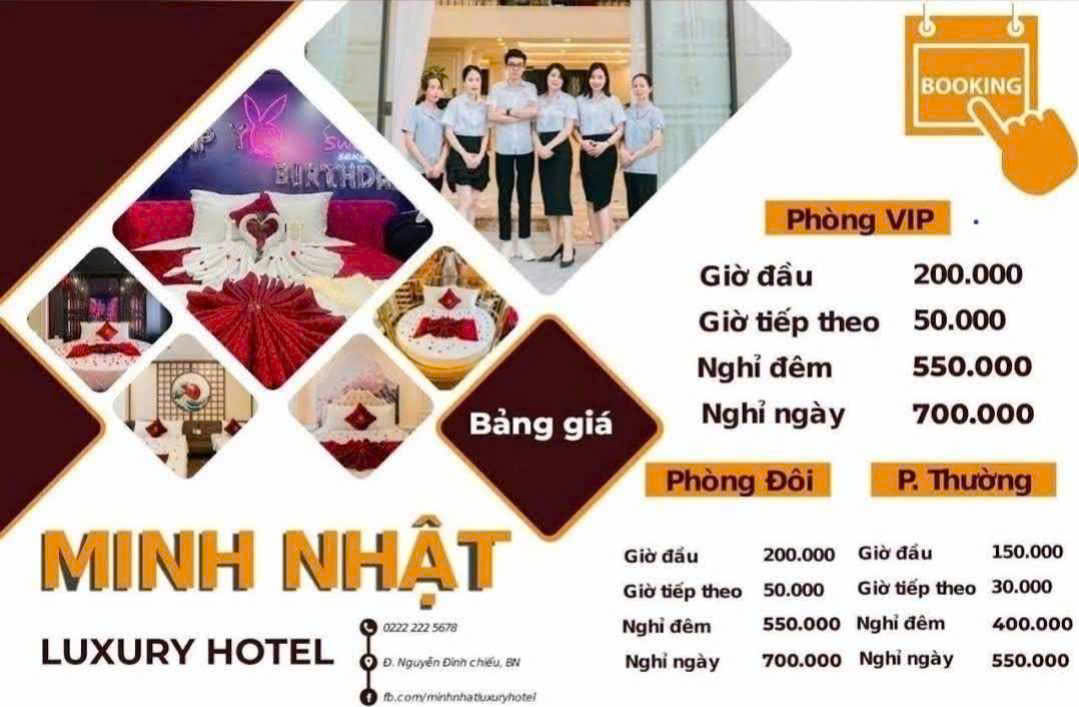
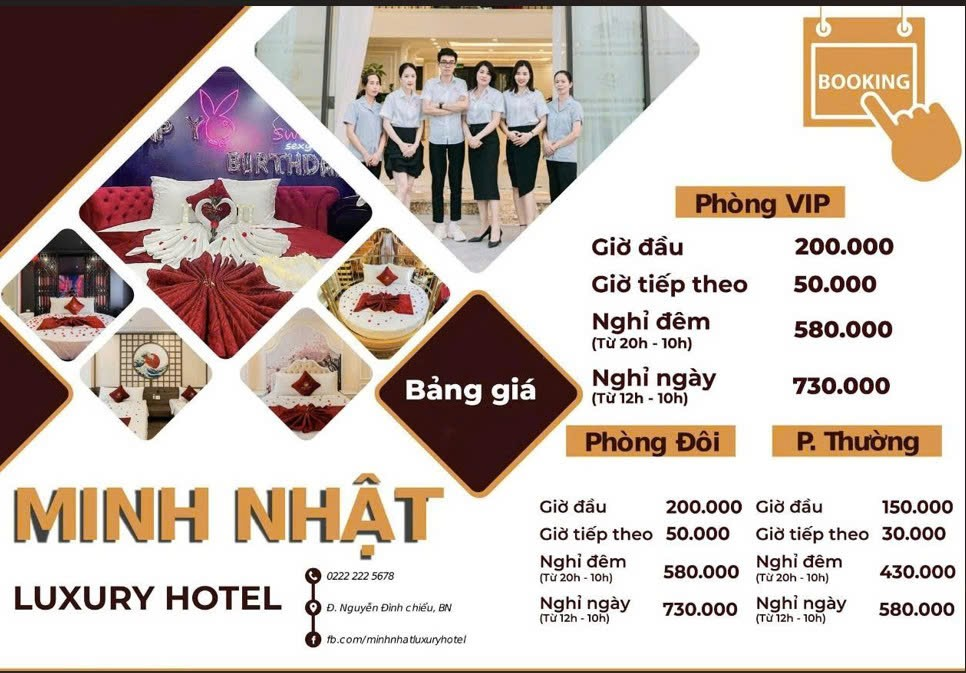
Add files via upload

diff --git a/index.html b/index.html
@@ -132,6 +132,7 @@
   .price-list{list-style:none;margin-bottom:18px}
   .price-list li{display:flex;justify-content:space-between;padding:8px 0;border-bottom:1px solid var(--line);font-size:.95rem}
   .price-list b{color:var(--maroon)}
+  .price-list small,tbody td small{font-size:.78em;color:var(--muted);font-weight:400}
   .nums{font-size:.85rem;color:var(--muted);margin-bottom:18px}
   .nums b{color:var(--ink)}
   .room .btn{justify-content:center;margin-top:auto}
@@ -266,8 +267,8 @@
       <h3>Giá chỉ từ</h3>
       <ul>
         <li><span>Giờ đầu</span><strong>150.000đ</strong></li>
-        <li><span>Nghỉ đêm</span><strong>400.000đ</strong></li>
-        <li><span>Nghỉ ngày</span><strong>550.000đ</strong></li>
+        <li><span>Nghỉ đêm</span><strong>430.000đ</strong></li>
+        <li><span>Nghỉ ngày</span><strong>580.000đ</strong></li>
         <li><span>Địa chỉ</span><span>57 Nguyễn Đình Chiểu, Võ Cường</span></li>
       </ul>
     </div>
@@ -320,8 +321,8 @@
           <ul class="price-list">
             <li>Giờ đầu<b>200.000đ</b></li>
             <li>Giờ tiếp theo<b>50.000đ</b></li>
-            <li>Nghỉ đêm<b>550.000đ</b></li>
-            <li>Nghỉ ngày<b>700.000đ</b></li>
+            <li>Nghỉ đêm <small>(20h – 10h)</small><b>580.000đ</b></li>
+            <li>Nghỉ ngày <small>(12h – 10h)</small><b>730.000đ</b></li>
           </ul>
           <p class="nums">8 phòng: <b>301, 302, 401, 402, 501, 502, 601, 602</b></p>
           <a href="https://m.me/minhnhatluxuryhotel" target="_blank" rel="noopener" class="btn">💬 Đặt phòng VIP</a>
@@ -334,8 +335,8 @@
           <ul class="price-list">
             <li>Giờ đầu<b>200.000đ</b></li>
             <li>Giờ tiếp theo<b>50.000đ</b></li>
-            <li>Nghỉ đêm<b>550.000đ</b></li>
-            <li>Nghỉ ngày<b>700.000đ</b></li>
+            <li>Nghỉ đêm <small>(20h – 10h)</small><b>580.000đ</b></li>
+            <li>Nghỉ ngày <small>(12h – 10h)</small><b>730.000đ</b></li>
           </ul>
           <p class="nums">2 phòng: <b>201, 202</b></p>
           <a href="https://m.me/minhnhatluxuryhotel" target="_blank" rel="noopener" class="btn">💬 Đặt phòng Đôi</a>
@@ -348,8 +349,8 @@
           <ul class="price-list">
             <li>Giờ đầu<b>150.000đ</b></li>
             <li>Giờ tiếp theo<b>30.000đ</b></li>
-            <li>Nghỉ đêm<b>400.000đ</b></li>
-            <li>Nghỉ ngày<b>550.000đ</b></li>
+            <li>Nghỉ đêm <small>(20h – 10h)</small><b>430.000đ</b></li>
+            <li>Nghỉ ngày <small>(12h – 10h)</small><b>580.000đ</b></li>
           </ul>
           <p class="nums">Các phòng <b>x04, x05</b> (204 → 605). Các phòng <b>x03</b> (203 → 603) có cửa sổ hướng hành lang.</p>
           <a href="https://m.me/minhnhatluxuryhotel" target="_blank" rel="noopener" class="btn">💬 Đặt phòng Thường</a>
@@ -397,8 +398,8 @@
         <tbody>
           <tr><td>Giờ đầu</td><td>200.000</td><td>200.000</td><td>150.000</td></tr>
           <tr><td>Giờ tiếp theo</td><td>50.000</td><td>50.000</td><td>30.000</td></tr>
-          <tr><td>Nghỉ đêm</td><td>550.000</td><td>550.000</td><td>400.000</td></tr>
-          <tr><td>Nghỉ ngày</td><td>700.000</td><td>700.000</td><td>550.000</td></tr>
+          <tr><td>Nghỉ đêm <small>(20h – 10h)</small></td><td>580.000</td><td>580.000</td><td>430.000</td></tr>
+          <tr><td>Nghỉ ngày <small>(12h – 10h)</small></td><td>730.000</td><td>730.000</td><td>580.000</td></tr>
         </tbody>
       </table>
     </div>
@@ -408,7 +409,7 @@
 </section>
 
 <!-- GIỜ NHẬN / TRẢ PHÒNG -->
-<!-- LƯU Ý: Giờ nhận phòng nghỉ ngày (14:00) là giờ tạm, cần khách sạn xác nhận lại -->
+
 <section id="trang-gio" class="page" data-group="bang-gia" hidden>
   <div class="container">
     <div class="head">
@@ -431,9 +432,9 @@
       </div>
       <div class="time">
         <h3>☀ Nghỉ ngày</h3>
-        <div class="row"><span>Nhận phòng</span><span class="big">14:00</span></div>
+        <div class="row"><span>Nhận phòng</span><span class="big">12:00</span></div>
         <div class="row"><span>Trả phòng</span><span class="big">10:00</span></div>
-        <p>Trả phòng trước 10:00 sáng hôm sau.</p>
+        <p>Nhận phòng từ 12:00 trưa, trả phòng trước 10:00 sáng hôm sau.</p>
       </div>
     </div>
     <ul class="rules">
@@ -471,7 +472,7 @@
     </div>
     <div class="contact">
       <div class="info">
-        <div class="item"><span class="ic">📍</span><div><small>Địa chỉ</small><b>57 Nguyễn Đình Chiểu, P. Võ Cường, Bắc Ninh</b></div></div>
+        <div class="item"><span class="ic">📍</span><div><small>Địa chỉ</small><b><a href="https://www.google.com/maps/search/?api=1&query=Minh%20Nh%E1%BA%ADt%20Luxury%20Hotel%2C%2057%20Nguy%E1%BB%85n%20%C4%90%C3%ACnh%20Chi%E1%BB%83u%2C%20V%C3%B5%20C%C6%B0%E1%BB%9Dng%2C%20B%E1%BA%AFc%20Ninh%2016118" target="_blank" rel="noopener">57 Nguyễn Đình Chiểu, Võ Cường, Bắc Ninh 16118</a></b><small><a href="https://www.google.com/maps/dir/?api=1&destination=Minh%20Nh%E1%BA%ADt%20Luxury%20Hotel%2C%2057%20Nguy%E1%BB%85n%20%C4%90%C3%ACnh%20Chi%E1%BB%83u%2C%20V%C3%B5%20C%C6%B0%E1%BB%9Dng%2C%20B%E1%BA%AFc%20Ninh%2016118" target="_blank" rel="noopener" style="color:var(--orange)">→ Chỉ đường bằng Google Maps</a></small></div></div>
         <div class="item"><span class="ic">📞</span><div><small>Hotline đặt phòng</small><b><a href="tel:02222225678">0222 222 5678</a></b></div></div>
         <div class="item"><span class="ic">💬</span><div><small>Facebook</small><b><a href="https://www.facebook.com/share/1dz3wBbjgg/" target="_blank" rel="noopener">Minh Nhật Luxury Hotel</a></b></div></div>
         <a href="https://m.me/minhnhatluxuryhotel" target="_blank" rel="noopener" class="btn">💬 Nhắn tin đặt phòng qua Messenger</a>
@@ -479,7 +480,7 @@
       </div>
       <div class="map">
         <iframe loading="lazy" title="Bản đồ Minh Nhật Luxury Hotel"
-          src="https://maps.google.com/maps?q=57%20Nguy%E1%BB%85n%20%C4%90%C3%ACnh%20Chi%E1%BB%83u%2C%20V%C3%B5%20C%C6%B0%E1%BB%9Dng%2C%20B%E1%BA%AFc%20Ninh&z=16&output=embed"></iframe>
+          src="https://maps.google.com/maps?q=Minh%20Nh%E1%BA%ADt%20Luxury%20Hotel%2C%2057%20Nguy%E1%BB%85n%20%C4%90%C3%ACnh%20Chi%E1%BB%83u%2C%20V%C3%B5%20C%C6%B0%E1%BB%9Dng%2C%20B%E1%BA%AFc%20Ninh%2016118%2C%20Vi%E1%BB%87t%20Nam&z=17&output=embed"></iframe>
       </div>
     </div>
   </div>
